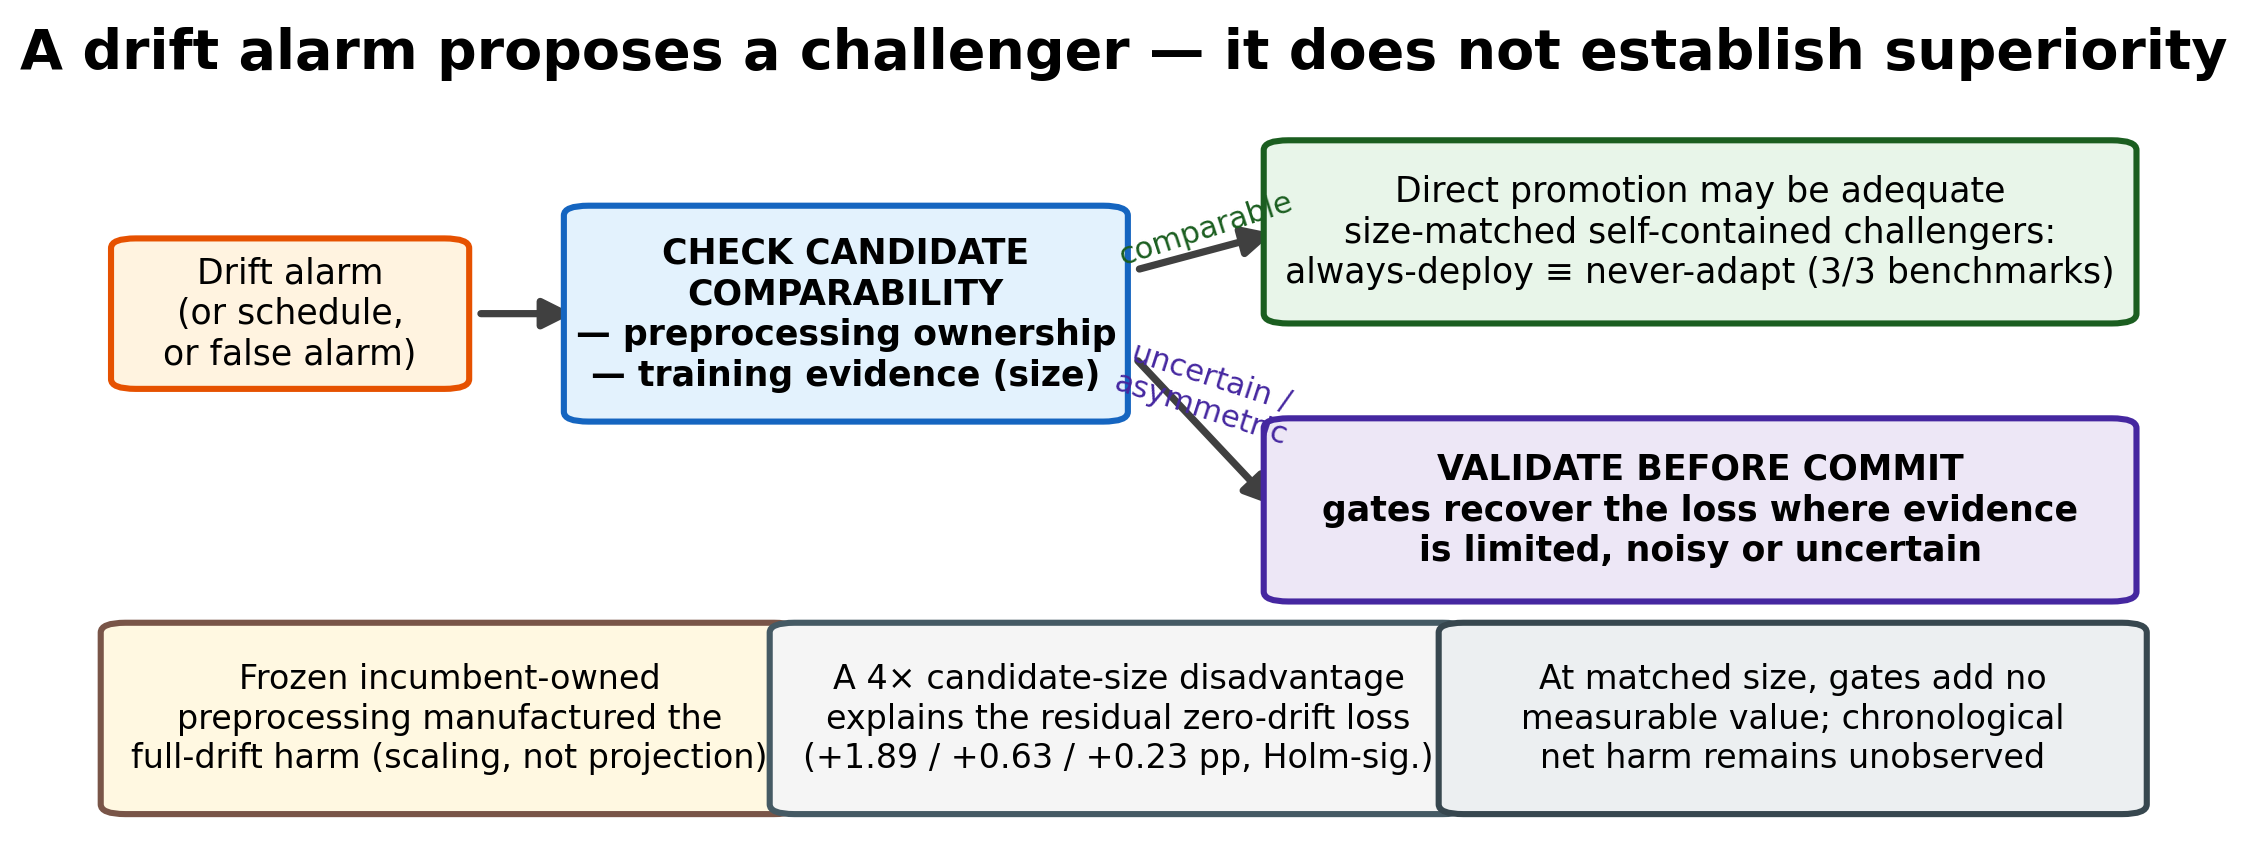
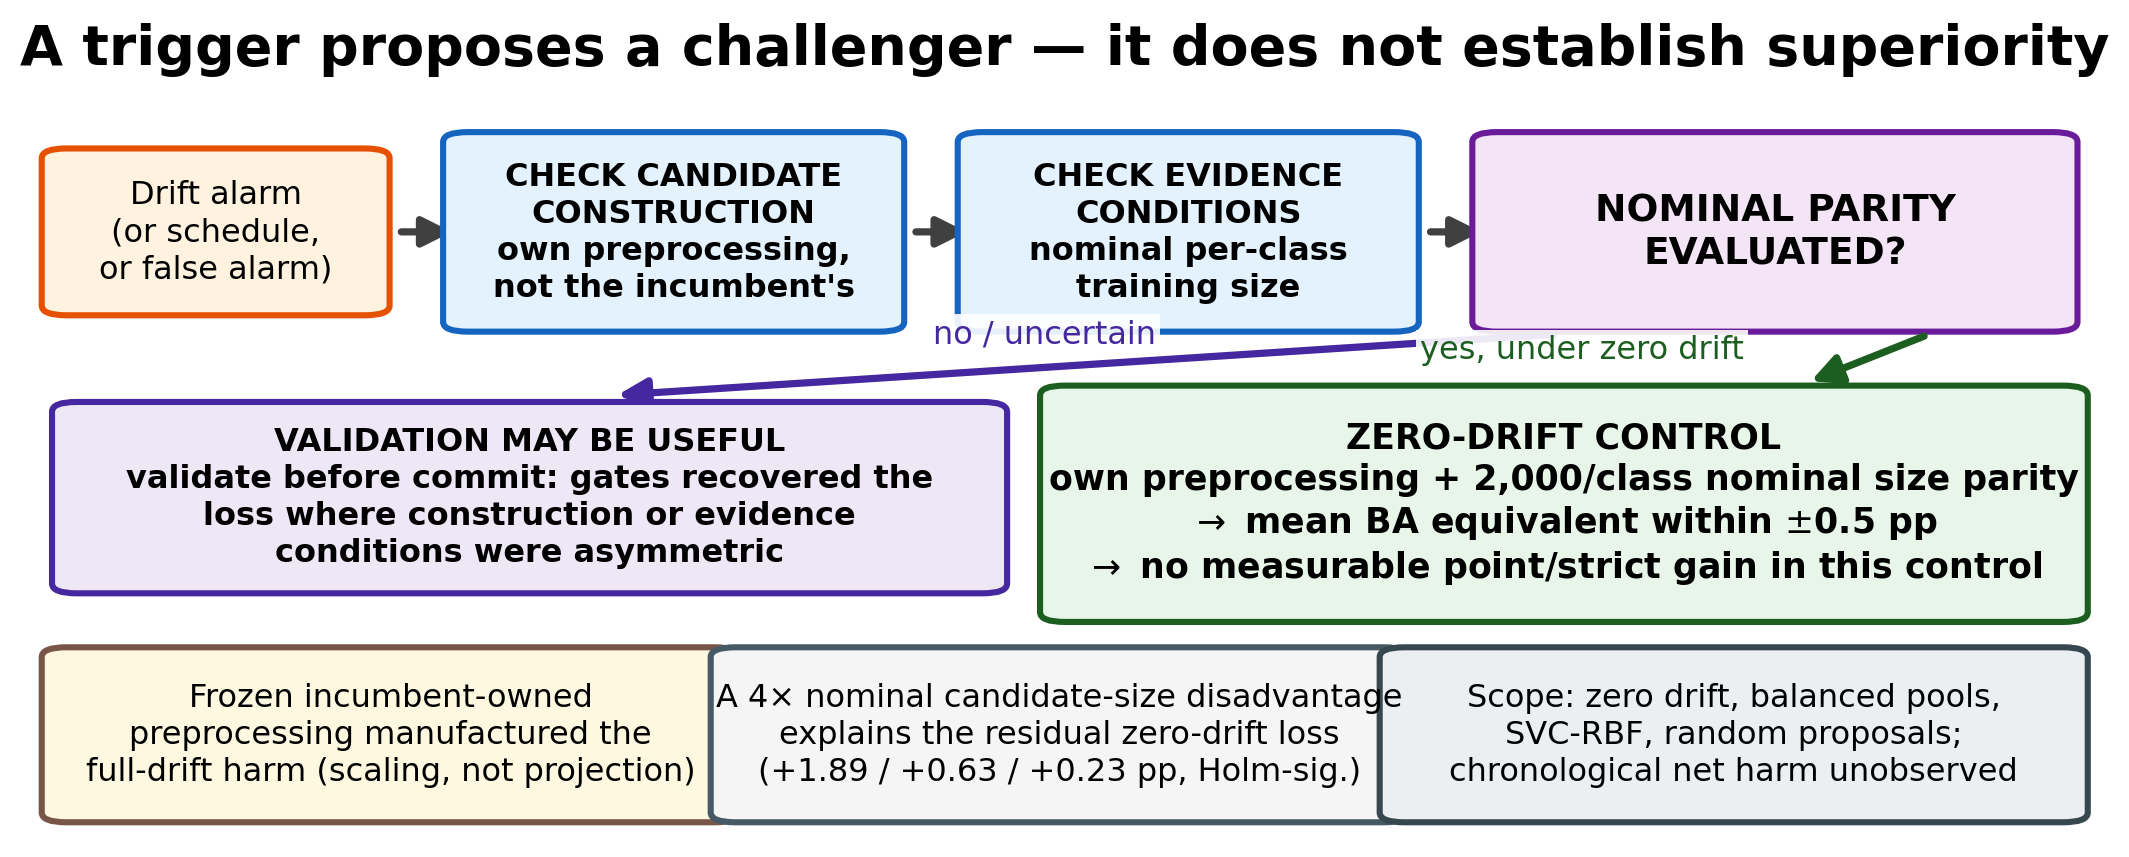
Apply v1.22.1 editorial scope corrections across manuscript, README and graphical abstract
- Data Availability now declares artifact v1.22.0, exact version DOI
  10.5281/zenodo.21517899 and sealing commit 43d9c25
- Size-matched claims scoped to the zero-drift, random-proposal, balanced-pool,
  SVC-RBF, own-transformer control at nominal per-class sample-size parity
- Universal gating recommendations replaced by conditional ones; highlights,
  graphical abstract and README carry the explicit zero-drift scope
- +/-0.2 / +/-0.5 / +/-1.0 margin sensitivity reported (PortScan margin-sensitive)
- Historical frozen-policy table re-captioned as diagnostic; VBC-SG compacted;
  ATTENUATION de-emphasized in abstract/conclusion; decision-quality detail
  relocated to Supplementary S2.10; body word count back to v1.22.0 level

diff --git a/src/analysis/make_paper2_graphical_abstract_final.py b/src/analysis/make_paper2_graphical_abstract_final.py
@@ -1,10 +1,11 @@
-"""Graphical abstract, redesigned for the final size-matched framing (registered rewrite
-protocol notes/size_matched_final_rewrite_protocol.md).
+"""Graphical abstract, v1.22.1 editorial-scope revision (protocol
+notes/v1_22_1_editorial_scope_protocol.md; supersedes the size-matched rewrite spec).
 
-Spec: Trigger != superiority -> check candidate comparability (preprocessing ownership +
-training evidence) -> comparable? yes -> direct promotion may be adequate; uncertain or
-asymmetric -> validate before commit. Three evidence badges, no universal claims.
-Output above Elsevier's 1328x531 minimum.
+Spec: Trigger != superiority -> check candidate construction -> check evidence
+conditions -> nominal parity evaluated?  No/uncertain -> validation may be useful;
+yes, under the ZERO-DRIFT CONTROL (own preprocessing + 2,000/class nominal size
+parity) -> mean BA equivalent within +-0.5 pp, no measurable point/strict gain in
+this control. No universal deployment rule. Output above Elsevier's 1328x531 minimum.
 """
 import matplotlib
 matplotlib.use("Agg")
@@ -31,50 +32,60 @@ def arrow(x0, y0, x1, y1, color="0.25", lw=2.6, style="-|>"):
 
 
 # ---- title strip ----
-ax.text(50, 94, "A drift alarm proposes a challenger — it does not establish superiority",
+ax.text(50, 94.5, "A trigger proposes a challenger — it does not establish superiority",
         ha="center", fontsize=FS_BIG, fontweight="bold")
 
-# ---- flow: trigger -> comparability check -> two branches ----
-y0, h0 = 52, 24
-box(2, y0 + 4, 15, h0 - 8, "Drift alarm\n(or schedule,\nor false alarm)", "#fff3e0", "#e65100", fs=FS_SM)
-arrow(18.5, y0 + h0 / 2, 23.5, y0 + h0 / 2)
-box(24, y0, 25, h0,
-    "CHECK CANDIDATE\nCOMPARABILITY\n"
-    "— preprocessing ownership\n— training evidence (size)",
-    "#e3f2fd", "#1565c0", fs=FS_SM, bold=True)
+# ---- top flow: trigger -> construction check -> evidence check -> parity question ----
+y0, h0 = 63, 22
+box(1.5, y0 + 2, 14.5, h0 - 4, "Drift alarm\n(or schedule,\nor false alarm)",
+    "#fff3e0", "#e65100", fs=11.5)
+arrow(17.5, y0 + h0 / 2, 20.5, y0 + h0 / 2)
+box(21, y0, 20, h0, "CHECK CANDIDATE\nCONSTRUCTION\nown preprocessing,\nnot the incumbent's",
+    "#e3f2fd", "#1565c0", fs=11.5, bold=True)
+arrow(42.5, y0 + h0 / 2, 45.5, y0 + h0 / 2)
+box(46, y0, 20, h0, "CHECK EVIDENCE\nCONDITIONS\nnominal per-class\ntraining size",
+    "#e3f2fd", "#1565c0", fs=11.5, bold=True)
+arrow(67.5, y0 + h0 / 2, 70.5, y0 + h0 / 2)
+box(71, y0, 27, h0, "NOMINAL PARITY\nEVALUATED?",
+    "#f3e5f5", "#6a1b9a", fs=13.5, bold=True)
 
-arrow(50.5, y0 + h0 * 0.72, 57.5, 74)
-arrow(50.5, y0 + h0 * 0.28, 57.5, 40)
-ax.text(54, 70, "comparable", fontsize=11, ha="center", rotation=18, color="#1b5e20")
-ax.text(54, 48, "uncertain /\nasymmetric", fontsize=11, ha="center", rotation=-18, color="#4527a0")
+# ---- branches ----
+arrow(74, y0 - 1.5, 28, 54, color="#4527a0")
+arrow(92, y0 - 1.5, 86, 55.5, color="#1b5e20")
+ax.text(49, 60.5, "no / uncertain", fontsize=11.5, ha="center", color="#4527a0",
+        bbox=dict(fc="white", ec="none", alpha=0.9, pad=1.5))
+ax.text(83, 58.5, "yes, under zero drift", fontsize=11.5, ha="right", color="#1b5e20",
+        bbox=dict(fc="white", ec="none", alpha=0.9, pad=1.5))
 
-box(58, 64, 40, 20,
-    "Direct promotion may be adequate\n"
-    "size-matched self-contained challengers:\n"
-    "always-deploy ≡ never-adapt (3/3 benchmarks)",
-    "#e8f5e9", "#1b5e20", fs=FS_SM)
-box(58, 30, 40, 20,
-    "VALIDATE BEFORE COMMIT\n"
-    "gates recover the loss where evidence\n"
-    "is limited, noisy or uncertain",
-    "#ede7f6", "#4527a0", fs=FS_SM, bold=True)
+box(2, 31, 44, 21,
+    "VALIDATION MAY BE USEFUL\n"
+    "validate before commit: gates recovered the\n"
+    "loss where construction or evidence\n"
+    "conditions were asymmetric",
+    "#ede7f6", "#4527a0", fs=11.5, bold=True)
+box(50, 27.5, 48.5, 26.5,
+    "ZERO-DRIFT CONTROL\n"
+    "own preprocessing + 2,000/class nominal size parity\n"
+    "$\\rightarrow$ mean BA equivalent within $\\pm$0.5 pp\n"
+    "$\\rightarrow$ no measurable point/strict gain in this control",
+    "#e8f5e9", "#1b5e20", fs=FS_SM, bold=True)
 
-# ---- three evidence badges ----
-box(1.5, 4, 31.5, 21,
+# ---- three evidence badges (scoped; no universal deployment rule) ----
+box(1.5, 3, 31.5, 19,
     "Frozen incumbent-owned\n"
     "preprocessing manufactured the\n"
     "full-drift harm (scaling, not projection)",
-    "#fff8e1", "#795548", fs=12)
-box(34, 4, 31.5, 21,
-    "A 4× candidate-size disadvantage\n"
+    "#fff8e1", "#795548", fs=11.5)
+box(34, 3, 31.5, 19,
+    "A 4× nominal candidate-size disadvantage\n"
     "explains the residual zero-drift loss\n"
     "(+1.89 / +0.63 / +0.23 pp, Holm-sig.)",
-    "#f5f5f5", "#455a64", fs=12)
-box(66.5, 4, 32, 21,
-    "At matched size, gates add no\n"
-    "measurable value; chronological\n"
-    "net harm remains unobserved",
-    "#eceff1", "#37474f", fs=12)
+    "#f5f5f5", "#455a64", fs=11.5)
+box(66.5, 3, 32, 19,
+    "Scope: zero drift, balanced pools,\n"
+    "SVC-RBF, random proposals;\n"
+    "chronological net harm unobserved",
+    "#eceff1", "#37474f", fs=11.5)
 
 fig.savefig("docs/img/graphical_abstract.png", dpi=200, bbox_inches="tight",
             facecolor="white")

diff --git a/manuscript/supplement.tex b/manuscript/supplement.tex
@@ -56,7 +56,7 @@ Because drift detectors are blind to model degradation, improving the detector c
 \subsection{Simple confirmation and cooldown policies do not prevent harm}
 
 
-If the decision is the lever, the natural fix is a smarter trigger policy. We pre-specified a grid of alarm-confirmation (k-of-n) and cooldown policies and evaluated them against fixed success criteria (preserve benefit in PortScan; avoid harm in ToN-IoT; do not degrade UNSW). None passed: in the harmful regime the tested policies remained far below no-adaptation and did not reduce adaptations relative to a conservative legacy baseline (Table~\ref{tab:table5_phase1_negative}). Confirmation and cooldown act on the \emph{persistence} of distributional change, which is exactly the signal that is uninformative about whether adaptation helps. This negative result motivates a policy that acts on the right quantity.
+If the decision is the lever, the natural fix is a smarter trigger policy. We pre-specified a grid of alarm-confirmation (k-of-n) and cooldown policies and evaluated them against fixed success criteria (preserve benefit in PortScan; avoid harm in ToN-IoT; do not degrade UNSW). None passed: in the harmful regime the tested policies remained far below no-adaptation and did not reduce adaptations relative to a conservative legacy baseline (Table~\ref{tab:table5_phase1_negative}). Confirmation and cooldown act on the \emph{persistence} of distributional change --- a signal that, within the evaluated triggered decisions, carried no consistent information about whether adaptation helps. This negative result motivates a policy that acts on the right quantity.
 
 
 \subsection{A label-efficient validate-before-commit gate resolves the problem}
@@ -229,6 +229,20 @@ also the rule that recovers essentially all of the zero-drift loss by refusing t
 without evidence. The confidence sequences of \S3.5 subsume it: they are valid at every sample
 size rather than at four pre-declared looks, and the empirical-Bernstein version is
 strictly tighter at the same $\alpha$.
+
+\subsection{Decision-quality of the lp32 gate on the logged triggers (relocated from main \S5.5)}
+
+Using the logged five-window lookahead as ground truth (never available to the policy), the
+lp32 gate's per-trigger operating point is: in the harm regime, rejection is almost always
+right (95\% of rejections blocked a non-beneficial update; recall of beneficial updates 0.95)
+and the gate cuts \emph{local per-decision regret} --- commit vs.\ reject on the gate policy's
+own trigger states, against an always-commit rule on those identical states --- from 0.0452
+to 0.0020, ${\sim}22\times$; in the benefit regime it still reduces this regret five-fold
+(0.0028 vs 0.0140). Pooled across 308 triggers: precision 0.74, recall 0.87, regret 0.0030
+vs 0.0212; horizon reruns at 1/3/5/10 leave the reductions essentially unchanged, and the
+marginal regime is honestly a wash at every horizon. The gate does commit some harmful
+updates (23\% of its commits have negative realized value, mostly small) --- it is a cheap
+statistical filter, not an oracle.
 
 \section{Additional figures and tables (initial study)}
 The floats below support the initial exploratory study of \S S1: the descriptive mechanism-law views, oracle-regret, label-latency, and the Phase-1 negative-policy table.

diff --git a/manuscript/main_ieee.tex b/manuscript/main_ieee.tex
@@ -412,8 +412,10 @@ Drift detection does not establish candidate superiority, but neither does every
 
 \section*{Data Availability}
 The three public benchmarks (CICIDS2017, UNSW-NB15, ToN-IoT) are cited in the text and not redistributed here.
-Code and a reproducibility guide are released as a public artifact~\cite{fernandezbarrios2026artifact}
-(Zenodo, DOI 10.5281/zenodo.21322256).
+Code, frozen protocols and a reproducibility guide are released as a public
+artifact~\cite{fernandezbarrios2026artifact}: version v1.22.0, exact version DOI 10.5281/zenodo.21517899
+(concept DOI 10.5281/zenodo.21322256 resolves to the latest release); the GitHub tag \texttt{v1.22.0} points to
+sealing commit \texttt{43d9c255af48db9bcc3c6eb341a153381b18c8e8}.
 
 \bibliographystyle{IEEEtran}
 \bibliography{references}

diff --git a/manuscript/tables/table_v2_confirmatory.tex b/manuscript/tables/table_v2_confirmatory.tex
@@ -1,6 +1,6 @@
 \begin{table}
 \centering
-\caption{\textbf{Main confirmatory result} (registered replication, harness v2: common pre-generated streams, role-disjoint partitions, pristine seeds 104--133). Gain vs.\ the shared no-adaptation baseline, in BA points [cluster bootstrap CI95 over 30 seeds]; the last column is the truly paired gate$-$naive contrast on bit-identical streams. Every pre-registered criterion (harm avoidance, benefit preservation, marginal non-degradation, detector invariance) passes.}
+\caption{\textbf{Historical frozen-policy diagnostic} (registered replication, harness v2: common pre-generated streams, role-disjoint partitions, pristine seeds 104--133; frozen-initial-transformer update policy, 512/class candidates). Gain vs.\ the shared no-adaptation baseline, in BA points [cluster bootstrap CI95 over 30 seeds]; the last column is the truly paired gate$-$naive contrast on bit-identical streams. Every pre-registered criterion (harm avoidance, benefit preservation, marginal non-degradation, detector invariance) passes. This is the finding that motivated the later construction controls, not the final evidence on comparable challengers: within this frozen configuration its numbers remain valid, and the gate's value here partly compensates an asymmetric representation (\S\ref{sec:symmetric}, \S\ref{sec:sizematched}).}
 \label{tab:v2_confirmatory}
 \resizebox{\ifdim\width>\linewidth \linewidth\else\width\fi}{!}{%
 \begin{tabular}{llrrr}

diff --git a/manuscript/tables_ieee/table_v2_confirmatory.tex b/manuscript/tables_ieee/table_v2_confirmatory.tex
@@ -1,6 +1,6 @@
 \begin{table*}[t]
 \centering
-\caption{\textbf{Main confirmatory result} (registered replication, harness v2: common pre-generated streams, role-disjoint partitions, pristine seeds 104--133). Gain vs.\ the shared no-adaptation baseline, in BA points [cluster bootstrap CI95 over 30 seeds]; the last column is the truly paired gate$-$naive contrast on bit-identical streams. Every pre-registered criterion (harm avoidance, benefit preservation, marginal non-degradation, detector invariance) passes.}
+\caption{\textbf{Historical frozen-policy diagnostic} (registered replication, harness v2: common pre-generated streams, role-disjoint partitions, pristine seeds 104--133; frozen-initial-transformer update policy, 512/class candidates). Gain vs.\ the shared no-adaptation baseline, in BA points [cluster bootstrap CI95 over 30 seeds]; the last column is the truly paired gate$-$naive contrast on bit-identical streams. Every pre-registered criterion (harm avoidance, benefit preservation, marginal non-degradation, detector invariance) passes. This is the finding that motivated the later construction controls, not the final evidence on comparable challengers: within this frozen configuration its numbers remain valid, and the gate's value here partly compensates an asymmetric representation (\S\ref{sec:symmetric}, \S\ref{sec:sizematched}).}
 \label{tab:v2_confirmatory}
 \resizebox{\ifdim\width>\textwidth \textwidth\else\width\fi}{!}{%
 \begin{tabular}{llrrr}

diff --git a/README.md b/README.md
@@ -15,13 +15,16 @@ classifiers. The field treats model updating as a **drift-detection** problem: f
 alarm, deploy. This repository decomposes what actually happens after the alarm: a trigger *proposes* a
 challenger, and whether promoting it helps depends on **how the challenger is constructed and evidenced**. Two
 preregistered controls trace the observed mean promotion harm to two construction asymmetries — frozen
-incumbent-owned preprocessing (full drift) and a 4× candidate-training-size disadvantage (zero drift). With
-both matched, always-deploy is mean-equivalent to never-adapt, and validation gates add no measurable value;
-where construction or evidence is asymmetric, a small commit-time check recovers the loss.
+incumbent-owned preprocessing (full drift) and a 4× nominal candidate-training-size disadvantage (zero drift).
+In the preregistered zero-drift control, with both asymmetries removed (own preprocessing + nominal
+2,000-per-class sample-size parity), always-deploy is mean-equivalent to never-adapt within the ±0.5-pp margin
+and point/strict validation gates add no measurable value; where construction or evidence is asymmetric, a
+small commit-time check recovers the loss.
 
 > **A drift alarm proposes a challenger — it does not establish that the challenger beats the incumbent.
-> Candidate construction, evidence comparability and promotion testing are sequential controls: validate when
-> comparability cannot be guaranteed, not as a substitute for building a fair challenger.**
+> Candidate construction, nominal evidence parity and promotion testing are sequential controls: validate the
+> challenger when its construction or evidence conditions remain asymmetric or uncertain, not as a substitute
+> for building a fair challenger.**
 
 ---
 
@@ -33,16 +36,21 @@ where construction or evidence is asymmetric, a small commit-time check recovers
 - Whether an update helps tracks **how degraded the deployed model already is**: retraining restores
   accuracy to a nearly regime-invariant level, so the benefit is the deployed model's *headroom* — a quantity
   drift-detector scores do not measure (at individual triggered decisions a hierarchical model clustered
-  on regime×seed gives β_deg = −1.02 [−1.61, −0.43] vs β_score ≈ 0). The detector — classical two-sample test or quantum-kernel
-  MMD — is **not the lever** in any regime we evaluated: improving the monitor did not improve the update decision.
+  on regime×seed gives β_deg = −1.02 [−1.61, −0.43] vs β_score ≈ 0). Within triggered decisions under the
+  evaluated detectors — classical two-sample tests or quantum-kernel MMD — score magnitude provided no
+  consistent incremental information about future candidate value beyond incumbent degradation: improving the
+  monitor did not improve the update decision in any regime we evaluated.
 - **Harm is a condition, not a dataset:** a *registered prediction test* (locked before running) confirms the account's sharpest consequence — under mild drift, where the incumbent stays healthy, always-deploy turns negative in **all three benchmarks** (CICIDS −0.46, UNSW −0.15, ToN −0.65; statistically resolved in UNSW and ToN), while the gate stays within its pre-registered tolerance and beats naive in each. (Mild-drift evidence is from the historical frozen-transformer configuration; the healthy-incumbent condition itself is re-confirmed under self-contained pipelines by the zero-drift cells of the symmetric replication below.)
 - Simple confirmation/cooldown policies and a 50/50 replay strategy do **not** fix it (pre-specified negatives).
 - **Candidate governance, not just drift detection:** a **validate-before-commit gate** — the loop retrains its
   candidate as usual, and the gate decides **deployment**: commit only if the candidate beats the incumbent on a
   small labeled probe (32 flows — the *decision's* incremental cost; candidates themselves consume ~1,024
   labels/trigger, fully accounted). A drift alarm is a *proposal generator*, not deployment evidence: whatever
-  produces a proposal — true drift, a false alarm, or a scheduled retrain — the challenger should be validated
-  before it replaces the incumbent. A **zero-drift control** makes the point: forcing updates on a healthy model
+  produces a proposal — true drift, a false alarm or a schedule — the trigger alone is not deployment evidence.
+  When candidate construction or evidence conditions remain asymmetric or uncertain, validate the challenger
+  before replacing the incumbent. (In the preregistered zero-drift size-matched control, point and strict
+  validation provided no measurable gain once self-contained challengers reached nominal 2,000-per-class
+  parity.) A **zero-drift control** makes the point: forcing updates on a healthy model
   is net-harmful *even with no drift at all* (the gate reduces, but does not eliminate, that replacement cost).
   Confirmed by a **replication registered before execution** on a hardened harness across two detectors and four
   downstream models, and by a **leakage-free observed-data arm** (candidate, probe and detector recalibration from observed traffic only; free of simulator-oracle information).
@@ -61,12 +69,15 @@ where construction or evidence is asymmetric, a small commit-time check recovers
   batches, P/A/E outcome rules frozen before execution):** those residual-harm challengers were also trained on
   **one quarter of the incumbent's per-class evidence** (512 vs 2,000). Giving the identical nested candidates
   the incumbent's 2,000/class **removes the mean zero-drift harm in all three benchmarks** (naive − never:
-  +0.19 / −0.02 / −0.01, CI90 inside the ±0.5-pp equivalence margin in 3/3), the candidate-size effect is
-  Holm-significant everywhere (+1.89 / +0.63 / +0.23), and **point/strict gates add no measurable value at the
-  matched size** (all six effects <0.14 pp, none significant; the gate×size interactions are uniformly negative —
-  the gates' value at 512 was largely compensation for the evidence asymmetry). The **registered outcome is
-  ATTENUATION**: the preregistered sign-based H5 future-value criterion blocks a formal ELIMINATION
-  classification (near-50% negative-sign rates), while the mean five-window future value of committed
+  +0.19 / −0.02 / −0.01, CI90 inside the ±0.5-pp equivalence margin in 3/3; PortScan is margin-sensitive at the
+  ±0.2-pp sensitivity), the candidate-size effect is Holm-significant everywhere (+1.89 / +0.63 / +0.23), and
+  **point/strict gates add no measurable value at the matched nominal size under this zero-drift control**
+  (all six effects <0.14 pp, none significant; the gate×size interactions are uniformly negative —
+  the gates' value at 512 was largely compensation for the nominal evidence asymmetry). Nominal per-class
+  sample-size parity isolates training-set size; it does not by itself establish equivalence in temporal
+  coverage, diversity, subtype support, label quality or effective sample size. The **registered outcome is
+  ATTENUATION**: the preregistered sign-based H5 future-value criterion remained inconclusive (near-50%
+  negative-sign rates), so ELIMINATION was not assigned, while the mean five-window future value of committed
   size-matched challengers is ≈0 — proposal-level variability around a null mean, not systematic net harm, and
   not a deployment-risk probability. Formal outcome and substantive reading are both reported, and kept distinct.
 - **A named policy whose deployment-long guarantee is non-vacuous within the evaluated balanced-probe adjudication budget:** **VBC-SG** — stratified per-class anytime-valid bounds driving

diff --git a/manuscript/highlights.md b/manuscript/highlights.md
@@ -3,18 +3,17 @@
 Elsevier format: 3–5 bullet points, each ≤ 85 characters (including spaces).
 (Character counts shown for verification; remove before submission.)
 
-- Frozen preprocessing can manufacture apparent candidate-promotion harm  [70]
-- Fourfold candidate-size asymmetry explains the residual zero-drift loss  [72]
-- Size-matched self-contained challengers are mean-equivalent to never-adapt  [75]
-- Gates help under asymmetric evidence; no measurable value once sizes match  [75]
-- Candidate construction and validation are complementary, conditional controls  [78]
+- Frozen incumbent-owned preprocessing can manufacture apparent promotion harm  [76]
+- A fourfold candidate-size disadvantage explains the residual zero-drift mean loss  [81]
+- Under zero drift, size-matched self-contained challengers meet the ±0.5-pp margin  [81]
+- Under that zero-drift control, point and strict gates provide no measurable gain  [80]
+- Construction, nominal evidence parity and validation are conditional controls  [77]
 
 ## Graphical abstract
 
 `docs/img/graphical_abstract.png` (rendered by `python -m src.analysis.make_paper2_graphical_abstract_final`;
-2247×857, above Elsevier's 1328×531 minimum). Flow: a drift alarm proposes a challenger →
-check candidate comparability (preprocessing ownership, training evidence) → comparable:
-direct promotion may be adequate (size-matched challengers mean-equivalent in 3/3
-benchmarks); uncertain/asymmetric: validate before commit — with three evidence badges
-(ownership mechanism, size effect, matched-size gate value plus the chronological
-boundary; no universal claims).
+2247×857, above Elsevier's 1328×531 minimum). Flow: a trigger is not superiority →
+check candidate construction → check evidence conditions → nominal parity evaluated?
+No/uncertain: validation may be useful; yes, under the ZERO-DRIFT CONTROL (own
+preprocessing + 2,000/class nominal size parity): mean BA equivalent within ±0.5 pp,
+no measurable point/strict gain in this control — no universal deployment rule.

diff --git a/REPRODUCE.md b/REPRODUCE.md
@@ -211,7 +211,8 @@ raw_stream_hash/candidate_provenance.jsonl/completion marker) and
 `results/tables/size_matched_own_transformer_001/` (by_seed, paired_contrasts, multiplicity,
 equivalence, security_metrics, harmful_commit_summary, candidate_size_interaction,
 descriptive_contrasts, run_completion, CLAIM_INTERPRETATION.json — machine verdict:
-**ATTENUATION**, with the substantive near-elimination reading recorded alongside). Invariants
+**ATTENUATION**, with the substantive reading — mean zero-drift harm equivalent to zero within the
+preregistered ±0.5-pp margin — recorded alongside). Invariants
 (flag-off bit-parity, nesting, raw-stream pairing, probe identity, leakage, hyperparameter
 identity, complete-bundle commit, determinism, seed firewall, metric recomputation, sealed
 v1.21.0 artifact unchanged): `tests/test_size_matched_control.py`.
@@ -303,7 +304,7 @@ Outputs: `results/tables/paper2_*` and `results/figures/paper2/*.{png,pdf}`.
 | Causal-64 matrix, VBC-SG frontier, prevalence sweep (final-kbs) | `paper2_final_kbs/`, Tables causal_probe/symmetric_ab, §5.3 |
 | Symmetric-pipeline replication (Scenario A): mean full-drift harm does not persist under self-contained pipelines (+7.21/+2.55/+1.03); ownership interaction up to +5.98; zero-drift harm persists (−1.74/−0.65 material, −0.38 resolved) and gates recover it (6/6 Holm-sig.); unsw_zero strict = recall↔FPR trade-off | `symmetric_pipeline_dynamic_001/` (CLAIM_INTERPRETATION.json), tab:symmetric_pipeline, Supp §S7 |
 | Frozen-mode parity: the new self-contained harness reproduces published v1.20.2 arms bit-for-bit (4 arms × 30 seeds; deferred arm 5/5 files byte-identical) | `results/smoke/symmetric_pipeline/parity/*/parity_report.json` |
-| Detector is not the lever (oracle-regret, invariance) | `paper2_oracle_regret_decision_001/`, Supp §S1.1–S1.2 |
+| Detector score carries no consistent incremental signal within triggered decisions (oracle-regret, invariance) | `paper2_oracle_regret_decision_001/`, Supp §S1.1–S1.2 |
 | Simple k-of-n/cooldown policies fail (pre-registered) | Supp §S1.3/S3; `notes/paper2_safe_readaptation_phase1_*` |
 | Label-efficient gate solves it (30 seeds, both detectors) | `paper2_phase2_gated_readaptation_001/`, Supp §S1.4 |
 | ~how few labels suffice (label-efficiency frontier) | `paper2_phase2b_budget_curve_001/`, Supp §S1.5 |